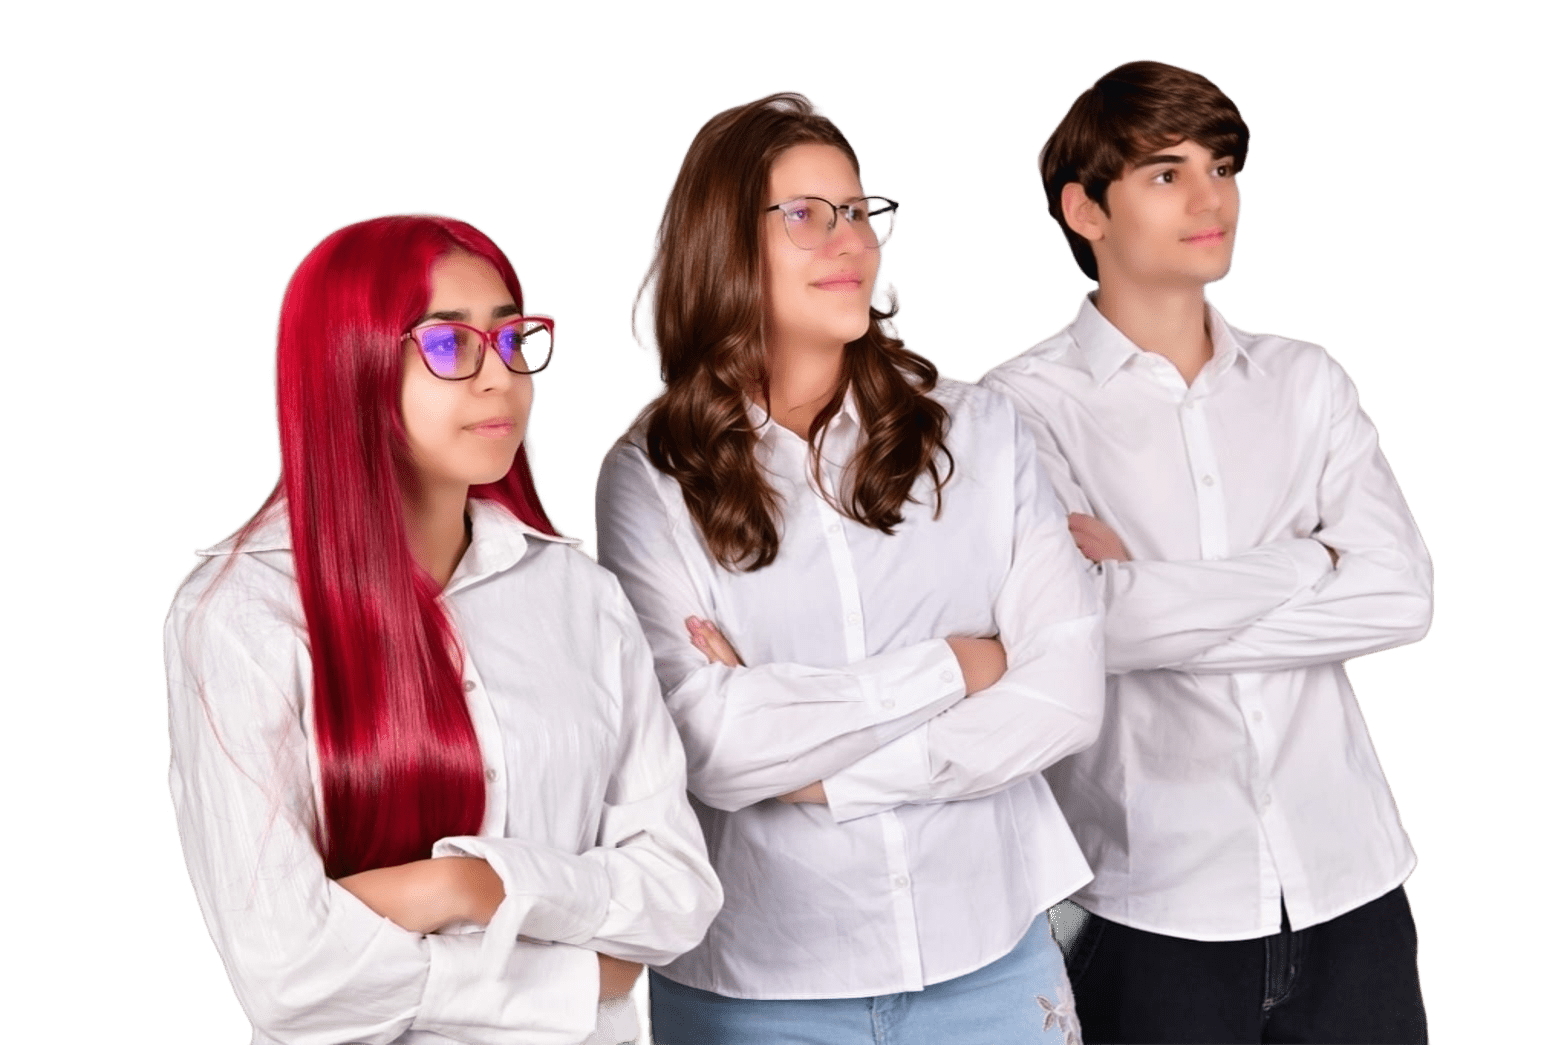
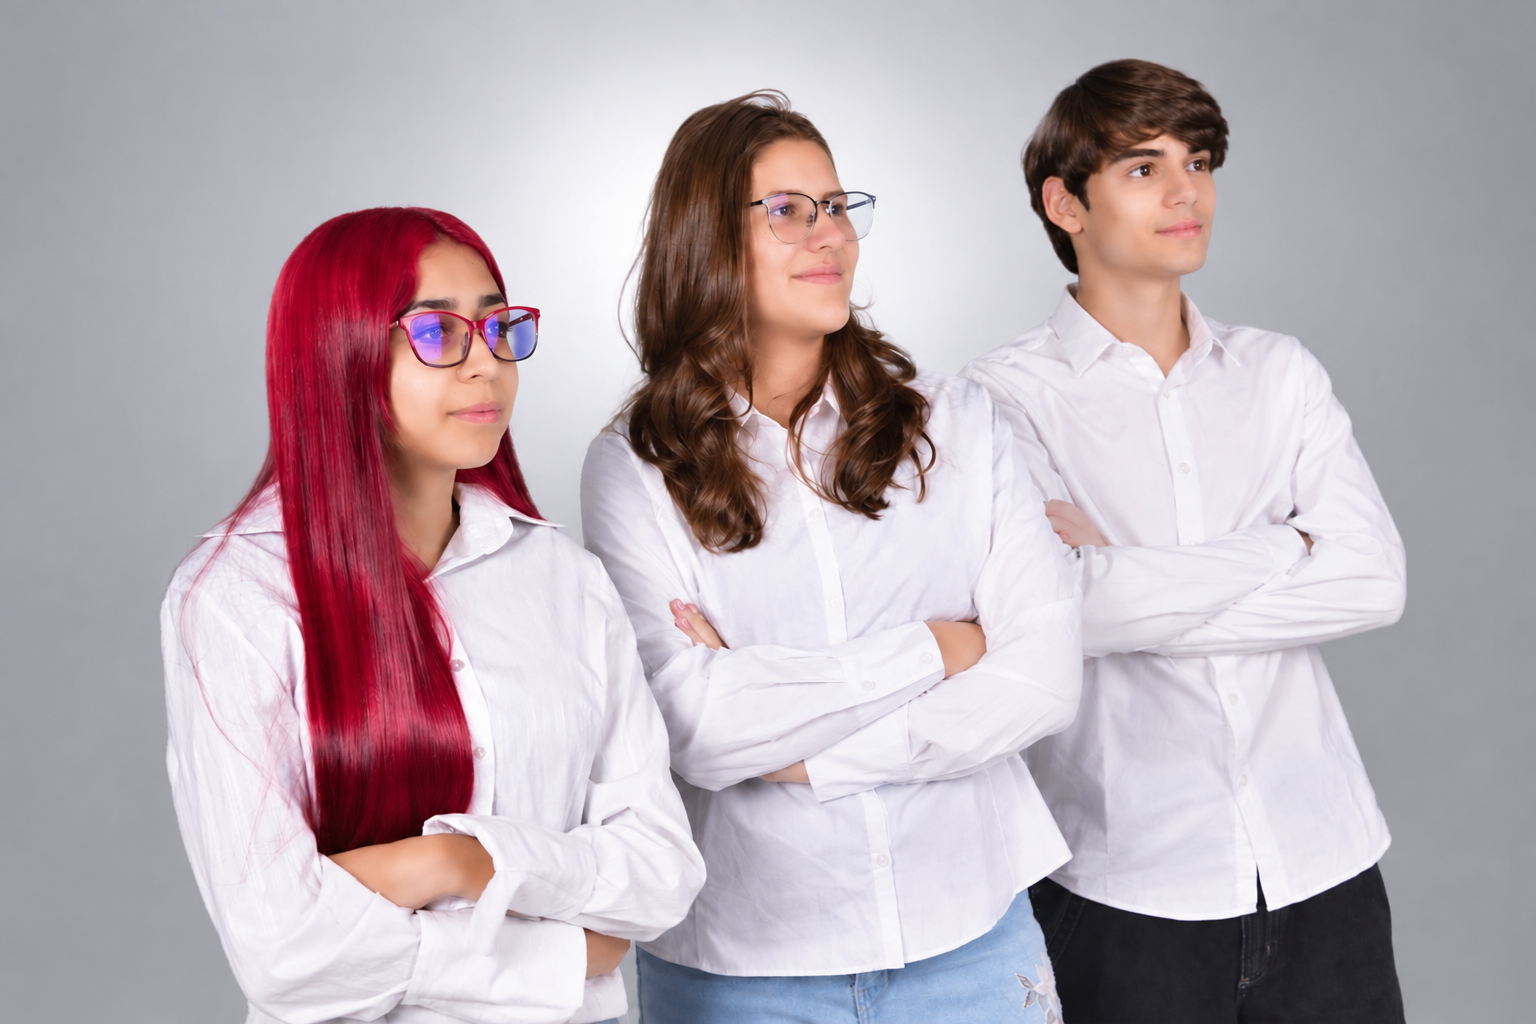
Inscrição da Condomit | Adição de links

diff --git a/src/styles.css b/src/styles.css
@@ -90,7 +90,7 @@ h2 { font-size: clamp(2.5rem, 5vw, 5.2rem); line-height: .98; letter-spacing: -.
 .year-button { padding: 8px 14px; color: var(--muted); background: var(--panel); border: 1px solid var(--line); cursor: pointer; font: 11px var(--mono); transition: .25s; }
 .year-button:hover, .year-button.active { color: var(--on-accent); background: var(--cyan); border-color: var(--cyan); }
 .year-button--future { color: var(--muted); border-style: dashed; cursor: not-allowed; }
-.startup-grid { display: grid; grid-template-columns: repeat(4, 1fr); gap: 14px; }
+.startup-grid { display: grid; grid-template-columns: repeat(3, minmax(0, 1fr)); gap: 14px; }
 .startup-card { min-height: 345px; display: flex; flex-direction: column; padding: 21px; background: var(--card-background); border: 1px solid var(--line); position: relative; overflow: hidden; transition: transform .3s, border-color .3s; }
 .startup-card::before { content: ''; position: absolute; width: 180px; height: 180px; top: -60px; right: -70px; border-radius: 50%; background: var(--card-glow); filter: blur(55px); opacity: .3; }
 .startup-card:hover { transform: translateY(-7px); border-color: rgba(139, 232, 255, .7); }
@@ -204,13 +204,32 @@ h2 { font-size: clamp(2.5rem, 5vw, 5.2rem); line-height: .98; letter-spacing: -.
   object-position: center 18%;
   background: linear-gradient(135deg, var(--bixuco-white), #dfeaf4);
   border-color: rgba(24, 171, 234, .82);
-  box-shadow: 0 10px 28px rgba(4, 12, 18, .48), 0 0 0 6px rgba(24, 171, 234, .12);
+  filter: saturate(.98) contrast(1.08);
+  border-width: 4px;
+  box-shadow: 0 18px 38px rgba(4, 12, 18, .58), 0 0 0 8px rgba(24, 171, 234, .16), 0 0 30px rgba(198, 255, 109, .14);
 }
 .startup-detail-page--bixuco .team-photo--group {
   background:
     linear-gradient(135deg, rgba(255, 255, 255, .96), rgba(200, 209, 217, .9)),
     var(--bixuco-ice);
   border: 1px solid rgba(24, 171, 234, .18);
+}
+.startup-detail-page--bixuco .team-gallery {
+  gap: 28px 12px;
+  padding-inline: 16px;
+}
+.startup-detail-page--bixuco .team-member {
+  gap: 9px;
+  padding: 10px 6px 0;
+}
+.startup-detail-page--bixuco .team-member strong {
+  margin-top: 8px;
+  color: var(--bixuco-white);
+  font-size: 12px;
+  line-height: 1.2;
+}
+.startup-detail-page--bixuco .team-member span {
+  color: rgba(245, 247, 251, .78);
 }
 .startup-detail-page--bixuco .detail-copy h1 em { color: var(--bixuco-light); text-shadow: 0 0 22px rgba(37, 227, 255, .18); }
 .startup-detail-page--bixuco .eyebrow,
@@ -633,6 +652,53 @@ h2 { font-size: clamp(2.5rem, 5vw, 5.2rem); line-height: .98; letter-spacing: -.
 .detail-section > * { min-width: 0; }
 .team-photo--portrait { width: min(170px, 100%); height: auto; aspect-ratio: 1; }
 .team-member strong { white-space: normal; overflow-wrap: anywhere; }
+.startup-detail-page--bixuco .team-gallery {
+  gap: 28px 12px;
+  padding-inline: 16px;
+}
+.startup-detail-page--bixuco .team-photo--portrait {
+  width: min(190px, 100%);
+  object-position: center 16%;
+  background: linear-gradient(135deg, var(--bixuco-white), #dfeaf4);
+  filter: saturate(.98) contrast(1.08);
+  border-color: rgba(24, 171, 234, .82);
+  border-width: 4px;
+  box-shadow: 0 18px 38px rgba(4, 12, 18, .58), 0 0 0 8px rgba(24, 171, 234, .16), 0 0 30px rgba(198, 255, 109, .14);
+}
+.startup-card--condomit { --card-glow: #00d5c7; --card-accent: #00d5c7; background: linear-gradient(145deg, transparent 42%, rgba(0, 213, 199, .12)), var(--card-background); }
+.startup-card--condomit .card-symbol { width: 100%; height: 150px; margin: 32px 0 24px; overflow: hidden; border: 1px solid rgba(0, 213, 199, .35); background: #fff; }
+.startup-card--condomit .startup-card-logo { width: 100%; max-width: none; max-height: none; height: 100%; object-fit: cover; transform: scale(1.55); filter: none; }
+.startup-card--condomit .card-bottom button { background: #00d5c7; }
+.startup-detail-page--condomit { --blue: #018cbb; --cyan: #00d5c7; --ink: #fefefe; --muted: #d5e9ed; --line: rgba(0, 213, 199, .22); --panel: #102c38; background: linear-gradient(135deg, #04162c 0%, #0a2554 42%, #0a3949 76%, #062b34 100%); }
+.startup-detail-page--condomit .detail-visual { background: linear-gradient(155deg, #0b2b50 0%, #0e2632 58%, #0a4247 100%); border-color: rgba(0, 213, 199, .3); }
+.startup-detail-page--condomit .detail-brand-panel { background: #fff; }
+.startup-detail-page--condomit .detail-brand-panel img { width: 190px; height: 120px; object-fit: cover; transform: scale(1.24); }
+.startup-detail-page--condomit .detail-brand-panel span { color: #002174; }
+.startup-detail-page--condomit .detail-copy h1 em,
+.startup-detail-page--condomit .eyebrow,
+.startup-detail-page--condomit .brand strong { color: #00d5c7; }
+.startup-detail-page--condomit .eyebrow-line { background: #00d5c7; }
+.startup-detail-page--condomit .team-gallery--profiles-only { grid-template-rows: 1fr; gap: 14px; padding: 24px; }
+.startup-detail-page--condomit .team-member { align-self: center; gap: 12px; }
+.startup-detail-page--condomit .team-member strong { font-size: 15px; }
+.startup-detail-page--condomit .team-member span { font-size: 10px; }
+.team-avatar { display: grid; place-items: center; width: min(150px, 100%); aspect-ratio: 1; border-radius: 50%; border: 3px solid #00d5c7; background: #0b3eaa; color: #fff; font-size: 58px; font-weight: 600; }
+.startup-detail-page--condomit .member-socials a { width: 34px; height: 34px; border-color: rgba(0, 213, 199, .5); color: #00d5c7; }
+[data-theme="light"] .startup-card--condomit { background: linear-gradient(145deg, transparent 42%, rgba(0, 213, 199, .2)), var(--card-background); }
+[data-theme="light"] .startup-detail-page--condomit { --blue: #0b3eaa; --cyan: #018cbb; --ink: #141414; --muted: #385662; --line: rgba(11, 62, 170, .2); --panel: #e6f5f6; background: linear-gradient(135deg, #fefefe 0%, #e6f5f6 48%, #c9efef 100%); }
+[data-theme="light"] .startup-detail-page--condomit .detail-visual { background: linear-gradient(155deg, #fefefe 0%, #dbeef4 54%, #b7e8e7 100%); border-color: rgba(11, 62, 170, .2); }
+[data-theme="light"] .startup-detail-page--condomit .detail-copy h1 em,
+[data-theme="light"] .startup-detail-page--condomit .eyebrow,
+[data-theme="light"] .startup-detail-page--condomit .brand strong { color: #0b3eaa; }
+[data-theme="light"] .startup-detail-page--condomit .eyebrow-line { background: #0b3eaa; }
+[data-theme="light"] .startup-detail-page--condomit .team-avatar { background: #0b3eaa; }
+[data-theme="light"] .startup-detail-page--condomit .member-socials a { color: #0b3eaa; border-color: rgba(11, 62, 170, .4); }
+@media (max-width: 680px) {
+  .startup-detail-page--condomit .detail-brand-panel { gap: 8px; }
+  .startup-detail-page--condomit .detail-brand-panel img { width: 130px; height: 90px; transform: scale(1.2); }
+  .startup-detail-page--condomit .team-gallery--profiles-only { grid-template-columns: 1fr; gap: 32px; }
+  .startup-detail-page--condomit .team-avatar { width: 120px; font-size: 46px; }
+}
 @media (min-width: 681px) and (max-width: 1050px) {
   .detail-section { grid-template-columns: 1fr; }
   .detail-copy { max-width: none; }
@@ -868,7 +934,7 @@ h2 { font-size: clamp(2.5rem, 5vw, 5.2rem); line-height: .98; letter-spacing: -.
 [data-theme="light"] .startup-detail-page--bixuco .detail-features strong { color: #0d2f2a; }
 [data-theme="light"] .startup-detail-page--bixuco .team-photo--portrait {
   border-color: rgba(29, 143, 106, .58);
-  box-shadow: 0 10px 24px rgba(11, 43, 34, .14), 0 0 0 6px rgba(29, 143, 106, .08);
+  box-shadow: 0 16px 34px rgba(11, 43, 34, .2), 0 0 0 8px rgba(29, 143, 106, .1), 0 0 28px rgba(24, 171, 234, .14);
 }
 [data-theme="light"] .startup-detail-page--bixuco .team-photo--group {
   background:
@@ -1035,6 +1101,7 @@ h2 { font-size: clamp(2.5rem, 5vw, 5.2rem); line-height: .98; letter-spacing: -.
   .team-gallery { grid-template-columns: 1fr; grid-template-rows: auto; gap: 28px; }
   .team-photo--group { height: auto; max-height: 400px; }
   .team-photo--portrait { width: 130px; }
+  .startup-detail-page--bixuco .team-photo--portrait { width: 156px; }
   .team-member strong { font-size: 13px; }
   .team-member span { font-size: 11px; }
   .member-socials { gap: 8px; }

diff --git a/src/data/startups.js b/src/data/startups.js
@@ -14,6 +14,7 @@ import bixucoArthur from '../assets/bixuco-arthur.png';
 import bixucoSophia from '../assets/bixuco-sophia.png';
 import bixucoYasmin from '../assets/bixuco-yasmin.png';
 import facosLogo from '../assets/facos-logo.svg';
+import condomitLogo from '../assets/condomit-logo.png';
 
 const selectio = {
   id: 'selectio',
@@ -61,6 +62,7 @@ const selectio = {
   socials: {
     instagram: 'https://www.instagram.com/selectio_/',
     linkedin: 'https://www.linkedin.com/company/selectioltda/posts/?feedView=all',
+    website: 'https://selectio.app.br/',
   },
 };
 
@@ -111,7 +113,7 @@ const startupSource = {
       socials: {
         instagram: 'https://www.instagram.com/appono.br/',
         linkedin: 'https://linkedin.com/company/appono-br/',
-        website: '#contato',
+        website: 'https://appono.vercel.app/',
       },
     },
     selectio,
@@ -140,18 +142,24 @@ const startupSource = {
       teamMembers: [
         {
           name: 'Arthur Regiani Delgado Rosa De Oliveira', role: 'Membro da equipe', image: bixucoArthur,
+          linkedin: 'https://www.linkedin.com/search/results/people/?keywords=Arthur%20Regiani',
           email: 'a.regianidelgado@gmail.com',
         },
         {
           name: 'Sophia Silva Freitas', role: 'Membro da equipe', image: bixucoSophia,
+          linkedin: 'https://www.linkedin.com/search/results/people/?keywords=Sophia%20Freitas',
           email: 'suelisophia21@gmail.com',
         },
         {
           name: 'Yasmin Bertoni', role: 'Membro da equipe', image: bixucoYasmin,
+          linkedin: 'https://www.linkedin.com/search/results/people/?keywords=Yasmin%20Bertoni',
           email: 'bertoniyasmin@gmail.com',
         },
       ],
-      socials: {},
+      socials: {
+        instagram: 'https://www.instagram.com/bixu.co/',
+        linkedin: 'https://www.linkedin.com/in/bixuco-oficial-4500b1402/',
+      },
     },
     {
       id: 'facos',
@@ -178,7 +186,38 @@ const startupSource = {
       socials: {
         instagram: 'https://www.instagram.com/facos.oficial?stkn=MTU0cm5ibHpvejI1YQ==',
         github: 'https://github.com/Pedro-Arruda-Az/Fa-os',
-        website: 'https://canva.link/gp4pe4iv9geyxka',
+        website: 'https://facos.netlify.app/',
+      },
+    },
+    {
+      id: 'condomit',
+      name: 'Condomit',
+      category: 'Tecnologia',
+      number: '05',
+      description: 'Plataforma digital que reúne comunicação, serviços e decisões para simplificar a gestão de condomínios.',
+      accent: 'condomit',
+      tags: ['Condomínios', 'Gestão', 'Comunicação'],
+      logo: condomitLogo,
+      tagline: 'O app do seu condomínio',
+      segment: 'gestão condominial',
+      headline: { text: 'Seu condomínio', emphasis: 'em um só lugar.' },
+      paragraphs: [
+        'A Condomit centraliza a comunicação, a gestão e os serviços do condomínio em um ambiente digital para síndicos, administradores e moradores. Comunicados, eventos, reservas, visitantes e manutenções ficam organizados na mesma plataforma.',
+        'Votações, reuniões e assembleias também fazem parte da proposta, facilitando a participação e a tomada de decisões. Ao reunir essas rotinas, a Condomit busca reduzir a dependência de grupos de mensagens, planilhas e processos manuais.',
+      ],
+      features: [
+        { title: 'Rotina integrada', description: 'Comunicados, eventos, reservas, visitantes e manutenção em um único ambiente.' },
+        { title: 'Decisões participativas', description: 'Votações, reuniões e assembleias conectadas à gestão do condomínio.' },
+        { title: 'Gestão mais clara', description: 'Informações e processos organizados para moradores, síndicos e administradores.' },
+      ],
+      teamMembers: [
+        { name: 'Giancarlo', role: 'CEO · Desenvolvimento full stack', instagram: 'https://www.instagram.com/gian.munarin/' },
+        { name: 'Gabriella', role: 'CMO · Marketing, finanças e front-end', instagram: 'https://www.instagram.com/Gab_l1no/' },
+        { name: 'Gustavo', role: 'COO · Operações, documentação e back-end', instagram: 'https://www.instagram.com/gustavolsilva09/' },
+      ],
+      socials: {
+        instagram: 'https://www.instagram.com/condomit.ofc/',
+        website: 'https://condomit.netlify.app/',
       },
     },
   ],
@@ -252,6 +291,23 @@ const englishContent = {
       { title: 'Trusted network', description: 'Organizes contacts, services and opportunities in a simple experience.' },
     ],
     roles: [],
+  },
+  condomit: {
+    description: 'A digital platform bringing communication, services and decisions together to simplify condominium management.',
+    tags: ['Condominiums', 'Management', 'Communication'],
+    tagline: 'Your condominium app',
+    segment: 'condominium management',
+    headline: { text: 'Your condominium', emphasis: 'in one place.' },
+    paragraphs: [
+      'Condomit brings condominium communication, management and services into one digital space for residents, managers and administrators. Announcements, events, bookings, visitors and maintenance are organized in the same platform.',
+      'Voting, meetings and assemblies are also part of the proposal, making participation and decisions easier. By bringing these routines together, Condomit aims to reduce reliance on messaging groups, spreadsheets and manual processes.',
+    ],
+    features: [
+      { title: 'Connected routines', description: 'Announcements, events, bookings, visitors and maintenance in one place.' },
+      { title: 'Shared decisions', description: 'Voting, meetings and assemblies connected to condominium management.' },
+      { title: 'Clearer management', description: 'Organized information and processes for residents, managers and administrators.' },
+    ],
+    roles: ['CEO · Full stack development', 'CMO · Marketing, finance and front end', 'COO · Operations, documentation and back end'],
   },
 };
 

diff --git a/src/components/StartupDetail.jsx b/src/components/StartupDetail.jsx
@@ -14,6 +14,7 @@ export default function StartupDetail({ startup, language, t, preferences, headi
   const headline = localize(startup.headline) || {};
   const paragraphs = localize(startup.paragraphs) || [];
   const features = localize(startup.features) || [];
+  const teamWithoutPhoto = !startup.teamImage && startup.teamMembers.length > 0;
   return (
     <main className={`startup-detail-page startup-detail-page--${startup.accent}`}>
       <header className="site-header detail-header">
@@ -33,11 +34,13 @@ export default function StartupDetail({ startup, language, t, preferences, headi
               : <strong className="logo-placeholder">{startup.name}</strong>}
             {localize(startup.tagline) && <span>{localize(startup.tagline)}</span>}
           </div>
-          <div className="team-gallery">
-            <Photo t={t} className="team-photo--group" src={startup.teamImage} alt={a11y.team(startup.name)} />
+          <div className={`team-gallery${teamWithoutPhoto ? ' team-gallery--profiles-only' : ''}`}>
+            {!teamWithoutPhoto && <Photo t={t} className="team-photo--group" src={startup.teamImage} alt={a11y.team(startup.name)} />}
             {startup.teamMembers.map((member) => (
               <div className="team-member" key={member.name}>
-                <Photo t={t} className="team-photo--portrait" src={member.image} alt={member.name} />
+                {member.image
+                  ? <Photo t={t} className="team-photo--portrait" src={member.image} alt={member.name} />
+                  : <div className="team-avatar" aria-hidden="true">{member.name.slice(0, 1)}</div>}
                 <strong>{member.name}</strong>
                 {localize(member.role) && <span>{localize(member.role)}</span>}
                 <SocialLinks links={member} name={member.name} language={language} t={t} compact />

diff --git a/README.md b/README.md
@@ -43,7 +43,7 @@ Enquanto as variaveis nao existirem, o modo de desenvolvimento usa `src/data/sta
 npm run seed:supabase
 ```
 
-O seed e idempotente para as startups: ele atualiza cada `slug` e substitui os membros daquela startup. Ele preserva os dados atuais de Appono, Selectio, Bixuco e Facos, incluindo os textos PT/EN, membros, links, ordem e acentos visuais.
+O seed e idempotente para as startups: ele atualiza cada `slug` e substitui os membros daquela startup. Ele preserva os dados atuais de Appono, Selectio, Bixuco, Facos e Condomit, incluindo os textos PT/EN, membros, links, ordem e acentos visuais.
 
 ### Modelo de dados
 

diff --git a/supabase/storage-manifest.md b/supabase/storage-manifest.md
@@ -20,5 +20,6 @@ Upload the current files to the public `startup-assets` bucket using these objec
 | `src/assets/bixuco-sophia.png` | `bixuco/members/sophia-freitas.png` |
 | `src/assets/bixuco-yasmin.png` | `bixuco/members/yasmin-bertoni.png` |
 | `src/assets/facos-logo.svg` | `facos/logo.svg` |
+| `src/assets/condomit-logo.png` | `condomit/logo.png` |
 
 The seed stores these object keys in the `*_url` columns. The application resolves them to public URLs through the configured Supabase project URL.
